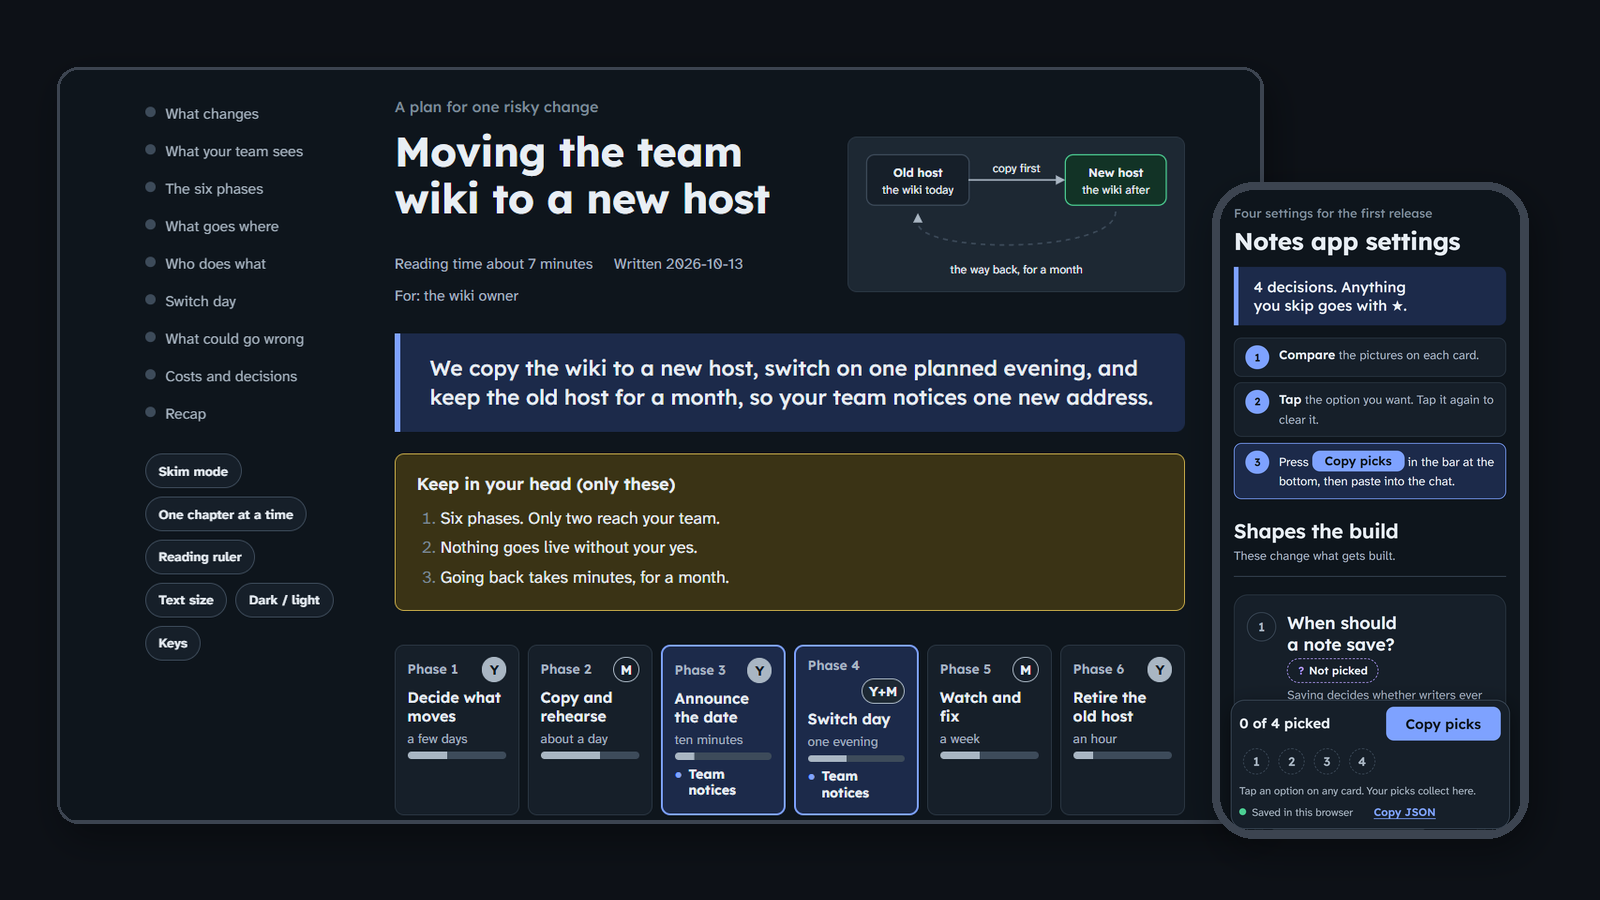
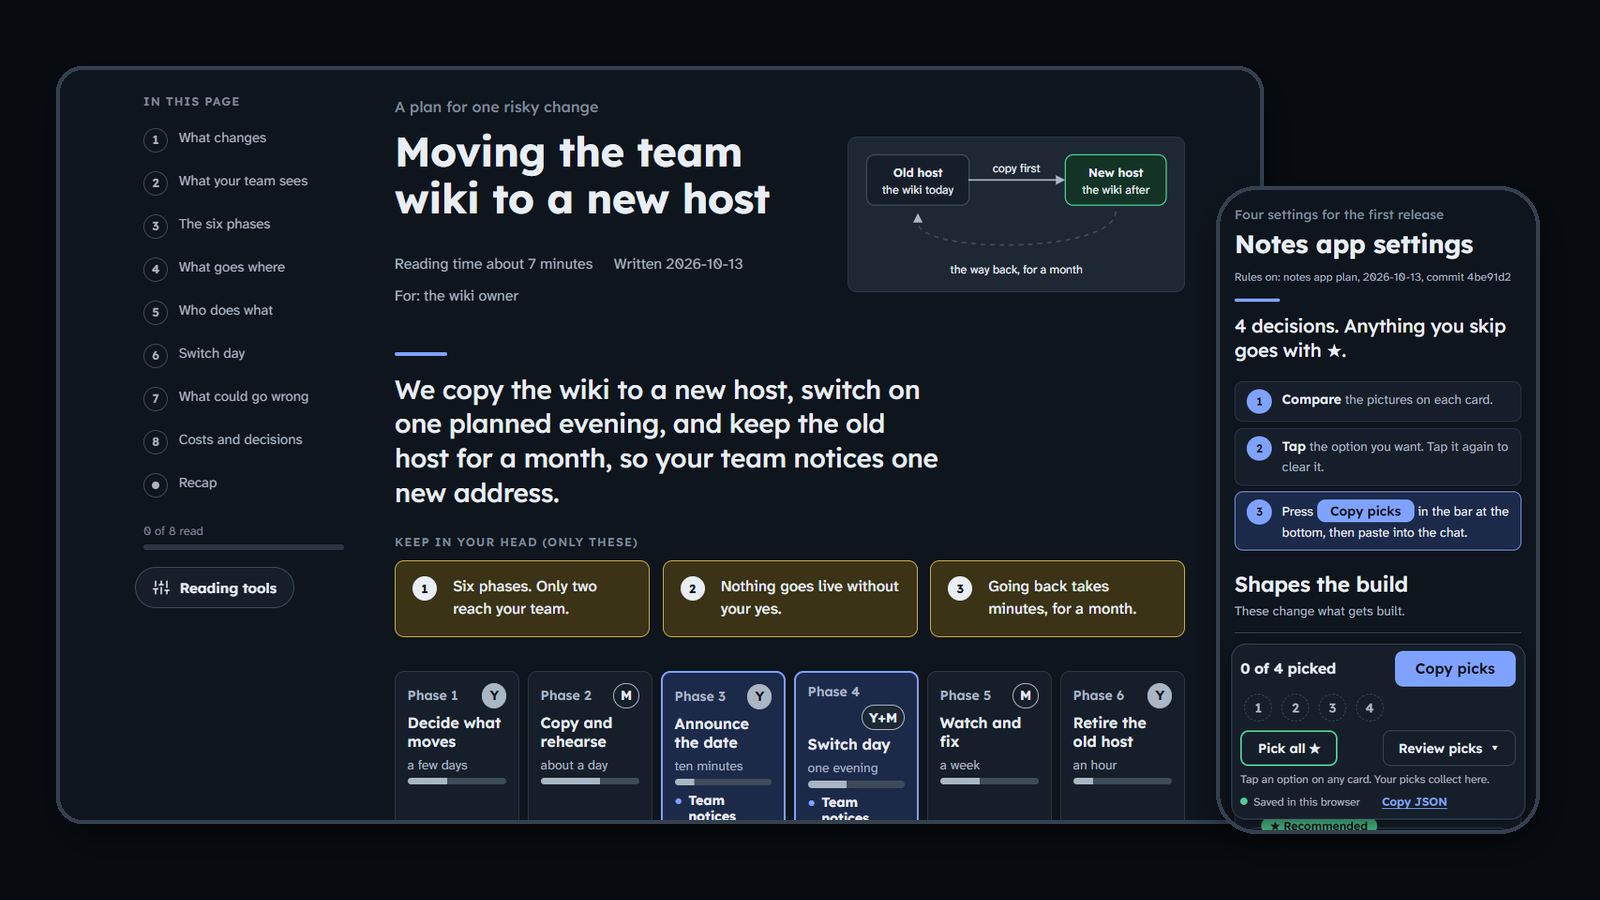
chore(release): 1.8.0, every page type redesigned around its own picture

Changed region(s): [[0.0938, 0.0933, 0.9688, 0.9333]]

diff --git a/docs/roadmap.html b/docs/roadmap.html
@@ -1464,9 +1464,9 @@ html:not(.js) .ballot-tray { display: none; }
       </div>
       <p class="take"><b>Take from this:</b> five items wait on another, and three wait on the outside-reader test.</p>
 
-      <details class="fold shipped"><summary><span>Shipped in 1.5.0: 3 items</span><a href="https://github.com/ariasr47/html-explainer-skill/blob/main/CHANGELOG.md">Changelog</a></summary>
-        <ul><li>Check every page automatically</li><li>Upgrade old pages</li><li>Answer by tapping</li></ul>
-        <p>Before that, 1.4.0 moved each skill into a self-contained folder so the skills install in other agents. It also added this roadmap, a public site and an automatic check on every change.</p>
+      <details class="fold shipped"><summary><span>Shipped in 1.6.0 to 1.8.0: 3 items</span><a href="https://github.com/ariasr47/html-explainer-skill/blob/main/CHANGELOG.md">Changelog</a></summary>
+        <ul><li>Every page type redesigned around its own picture (1.8.0)</li><li>The field-guide page type (1.7.0)</li><li>Roadmap lanes that say what they mean, and prioritising that adds up (1.6.0)</li></ul>
+        <p>Before that, 1.5.0 checked every page automatically, upgraded old pages and added answers by tapping. 1.4.0 moved each skill into a self-contained folder, and added this roadmap, a public site and an automatic check on every change.</p>
       </details>
 
       <details class="fold parked"><summary><span>Parked on purpose: 3 items, each with what would bring it back</span></summary>

diff --git a/CHANGELOG.md b/CHANGELOG.md
@@ -2,6 +2,55 @@
 
 Each release is a git tag and the `version` in `.claude-plugin/plugin.json`. Pages carry their own copy of the template, so a fix reaches a page only when the page is made again.
 
+## 1.8.0 (2026-10-15)
+
+Every page type redesigned around its own picture. A review of 21 real pages found that 19 types opened with the same first phone screen, so a status report looked like a release note until the third screen. Every type was redrawn on a canvas, today beside redesigned, and Rodrigo approved them before the build.
+
+### Changed
+- **The opening.**
+  - The answer is the page's headline, with no box.
+  - The three keep facts sit side by side as cards.
+  - On a computer, the side rail is the chapter map: each chapter's one line and its minutes, a number per chapter and an "N of M read" bar.
+  - On a phone, the chapter map is a compact list and the two rows of tool chips are gone.
+- **One Reading tools button** holds skim mode, one chapter at a time, the reading ruler, text size (A−, A, A+), dark or light, and the keys. It replaces six buttons.
+- **A calmer chapter.**
+  - Read aloud and Done are small icon buttons.
+  - "Before this" is a quiet line. The take line is a caption, and folds are quiet rows.
+  - Remember is the only tinted strip.
+  - Four look-alike bars per chapter became two.
+- **Calmer colour.**
+  - The before pane of a split is white, and the after pane has a thin green rule.
+  - The recommended option is marked in purple with ★ inside its card.
+  - Tile numbers are ink.
+  - A runbook's check and failure lines are quiet glyph lines, not red and green boxes.
+  - Customer pages drop the Done control and the progress line.
+- **Old pages get the new look** through `upgrade.mjs`. On 21 real pages brought from 1.7.0, phone height fell by a median of 9%, up to 15% for a runbook, with no markup changed.
+- **The atlas:**
+  - layer filter chips beside the search
+  - a detail line for the part you pick
+  - a key for current, dormant and target
+  - a journey strip with file anchors
+  - the snapshot warning as one quiet line
+
+### Added
+- **At a glance**, a section after the keep box that puts the type's own picture on the first screen. `types.md` names the picture for each type; roadmap, playbook, field-guide and ballot pages already open with theirs.
+- **New parts for the glance:**
+  - `div.duo`, two columns.
+  - `div.cols`, two or three state columns.
+  - `ul.findings`, each finding with its strength in words and bars.
+  - `ol.layers`, a system as layers with "You are here".
+- **Four pictures the page draws for itself,** from parts already on the page, so nothing is typed twice:
+  - `div.runbook-overview`: every step as a checklist that shares the steps' done state.
+  - `div.filmstrip`: a tour's screens as thumbnails.
+  - `div.rulings`: a decision page's rulings, with the recommendation and the state.
+  - `div.qprogress`: a questionnaire's questions as dots that fill as you answer.
+- **Checker rules.**
+  - A page from 1.8.0 on without a glance gets a warning, and a glance without a take line gets one too. Older pages are never warned.
+  - Each new part fails when its data is wrong, or when it is missing what it draws from.
+
+### Fixed
+- **No rail, no error.** A page with no side rail, such as a ballot, no longer stops the reader script.
+
 ## 1.7.0 (2026-10-14)
 
 ### Added

diff --git a/ROADMAP.md b/ROADMAP.md
@@ -43,6 +43,7 @@ On 12 December 2026 this roadmap is reviewed against outside feedback and the re
 
 ## Recently shipped
 
+- **1.8.0:** every page type redesigned around its own picture: the answer as the headline, an At a glance section on the first screen, the rail as the chapter map, one Reading tools button and a calmer chapter. Old pages get the look through `upgrade.mjs`.
 - **1.7.0:** the field-guide page type, a reference with a territory map, a start-here list and a searchable index. The automatic check now skips pages made by a newer release.
 - **1.6.0:** roadmap lanes that state their horizon and confidence, one fixed set of status words, exception marks, derived "Unblocks N" counts, folded history and a backlog view; buckets for prioritising, a repaired rank control and a combined ranking in the merge tool.
 - **1.5.0:** a hook runs the checker at the end of every turn that wrote a page, so failures go back to the agent before you see the page (Claude Code only). `upgrade.mjs` brings a page made with an older release to the current design. Decision pages can end in tap-to-answer fields, and ballots take text options, a Pick all ★ button, warning chips and a review list with a note.
